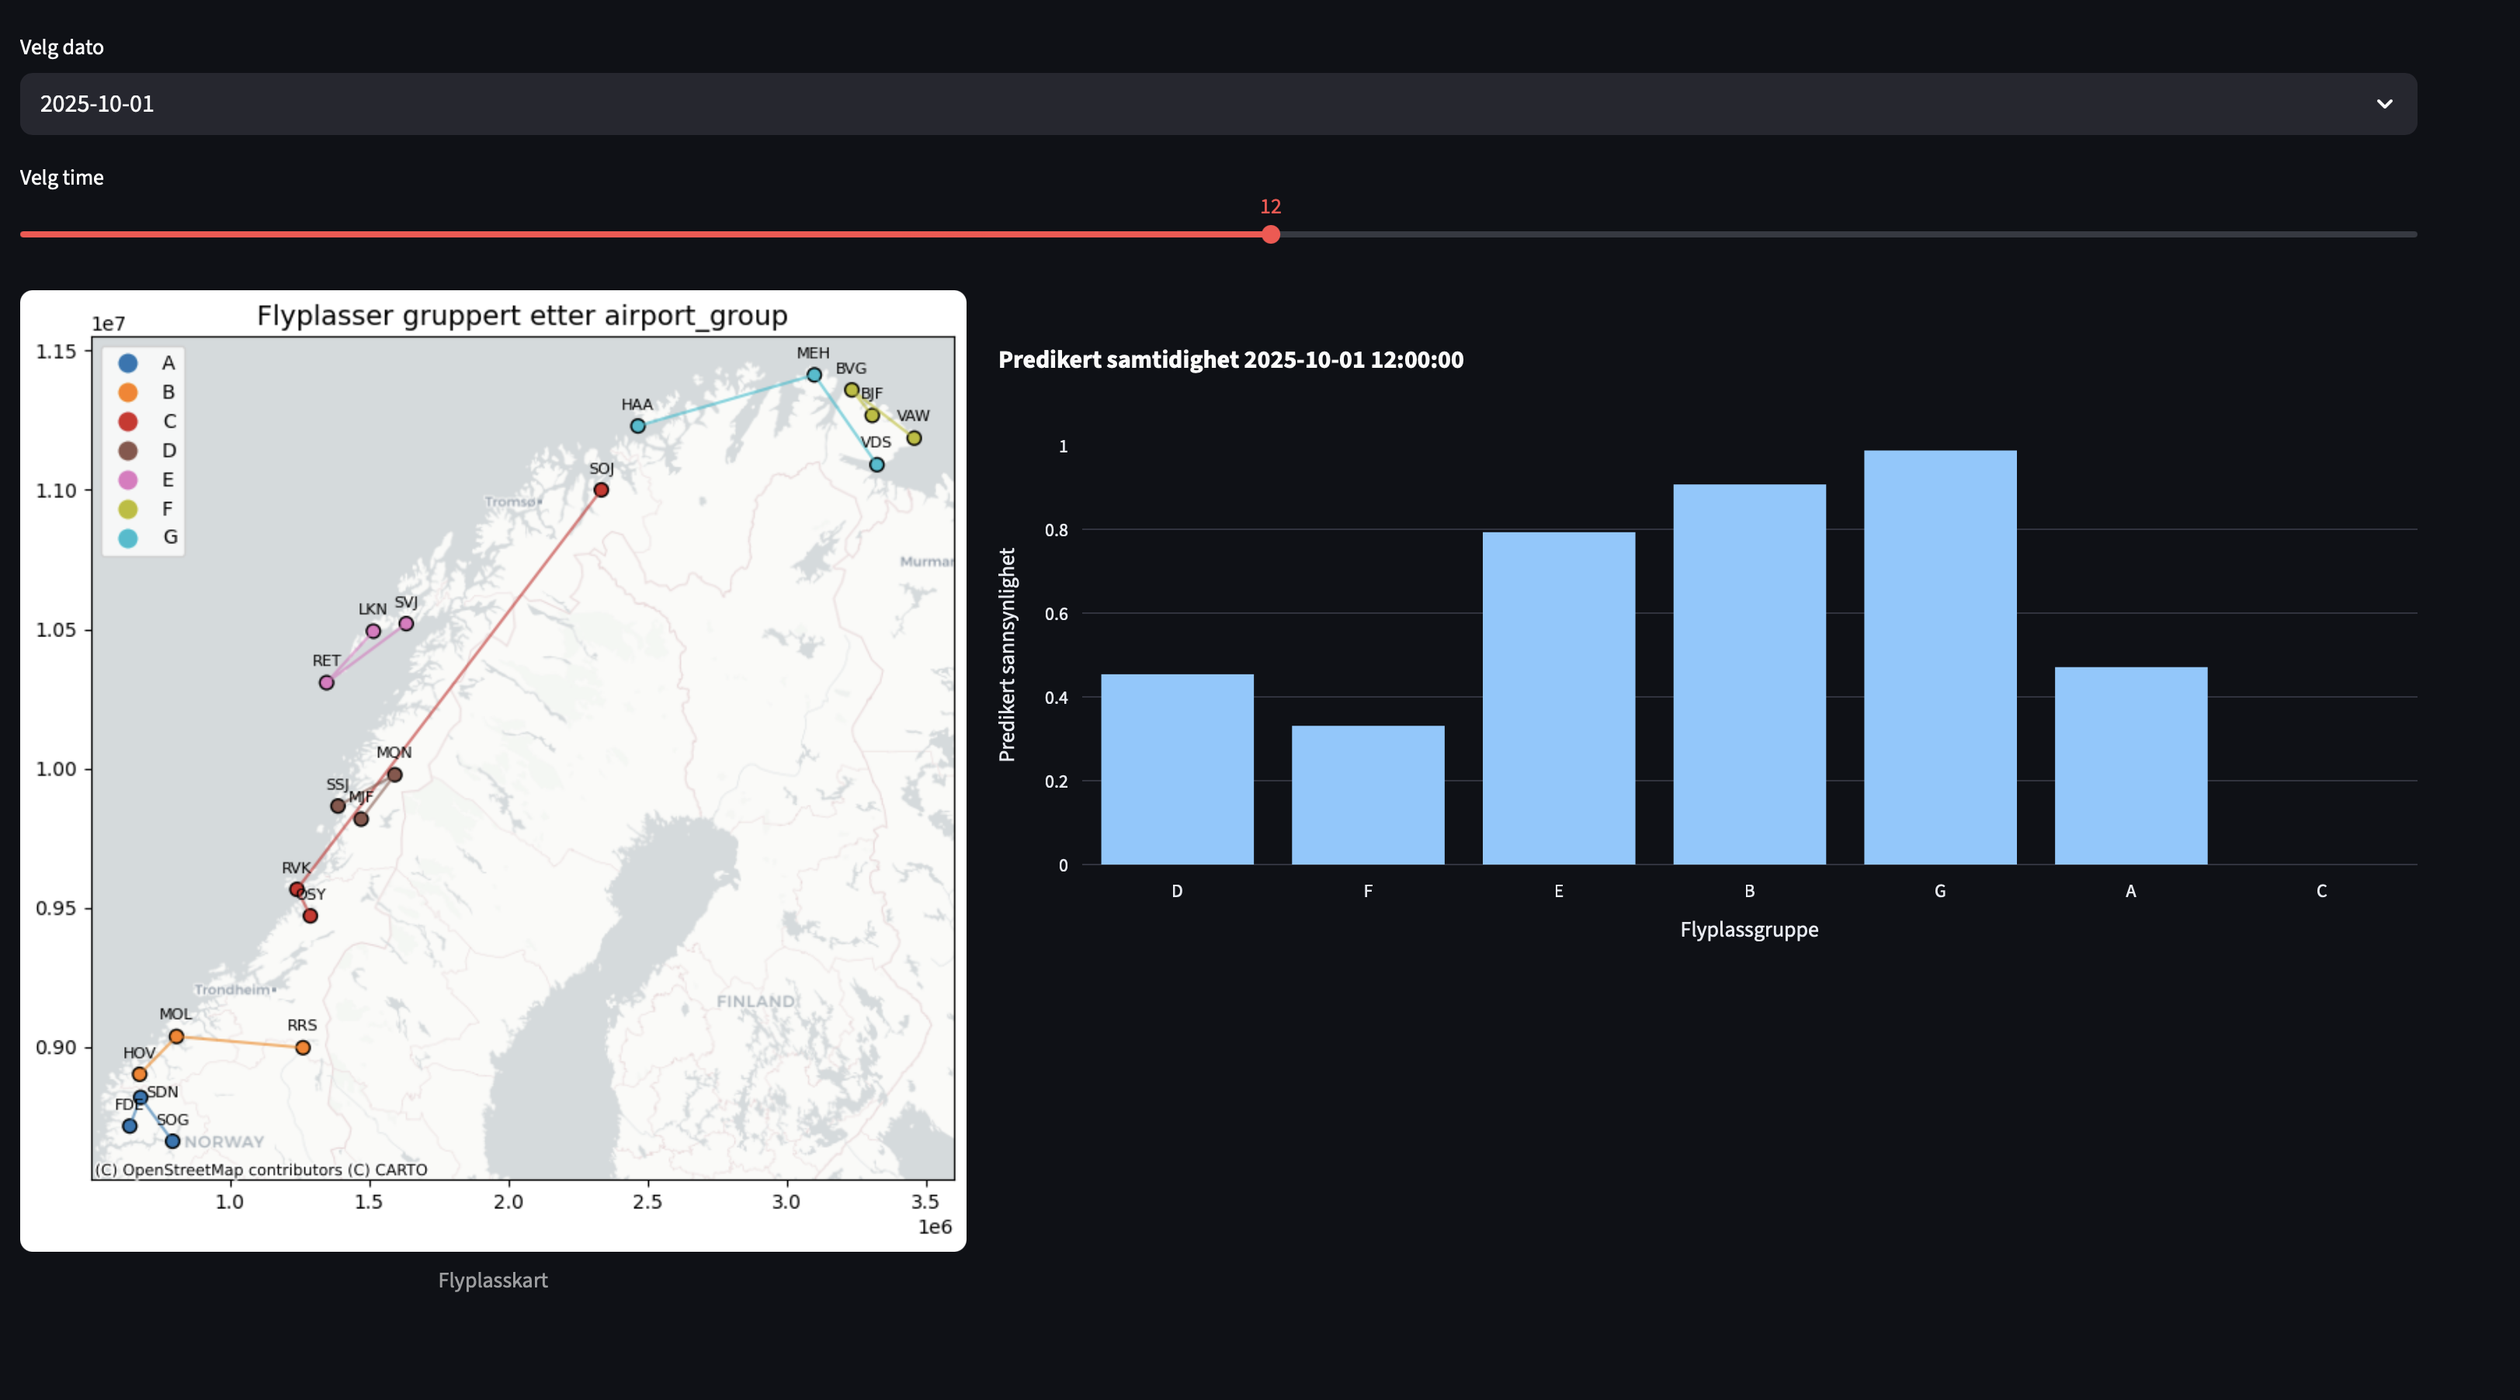
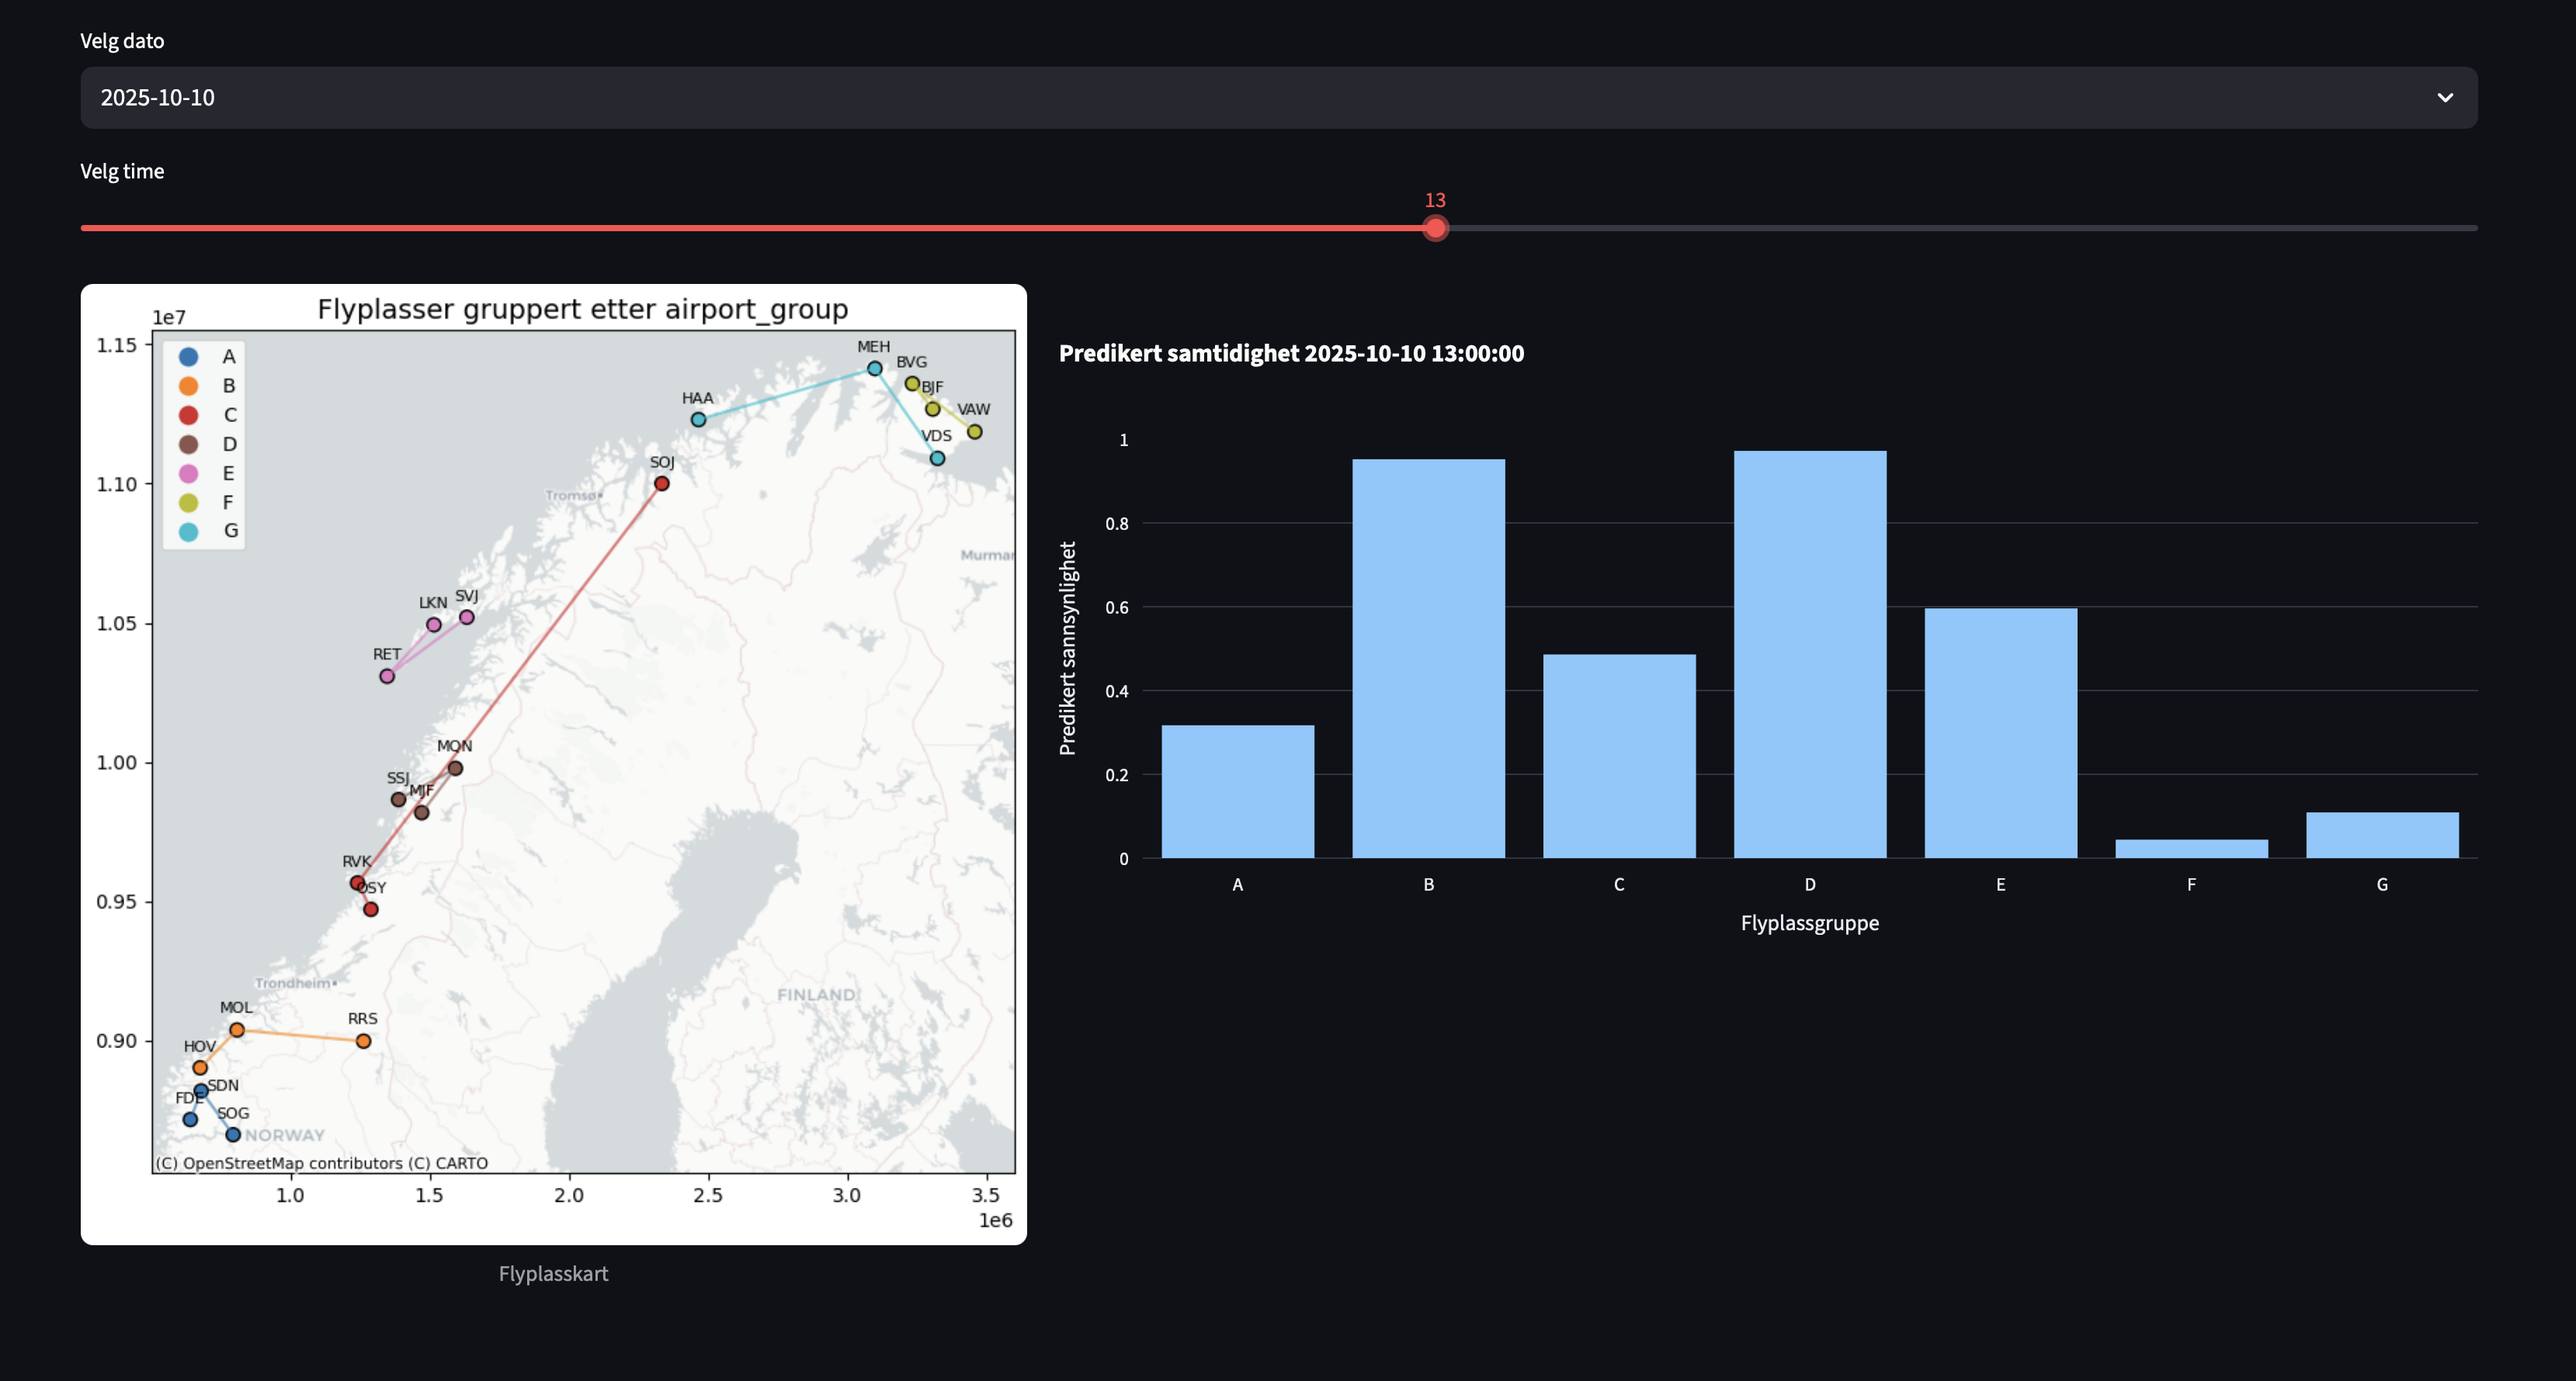
endret slik at app plot alltid er fra A-G

Changed region(s): [[0.0, 0.0, 0.9646, 0.927], [0.6534, 0.618, 0.7468, 0.6798], [0.4667, 0.618, 0.4978, 0.6489]]

diff --git a/src/app.py b/src/app.py
@@ -31,5 +31,7 @@ with col2:
     fig = px.bar(df_filtered, x="airport_group", y="pred",
                  title=f"Predikert samtidighet {selected_time}",
                  labels={"pred": "Predikert sannsynlighet", "airport_group": "Flyplassgruppe"},
-                 range_y=[0,1])
+                 range_y=[0,1],
+                 category_orders={"airport_group": ["A","B","C","D","E","F","G"]})
+    
     st.plotly_chart(fig, use_container_width=True)
